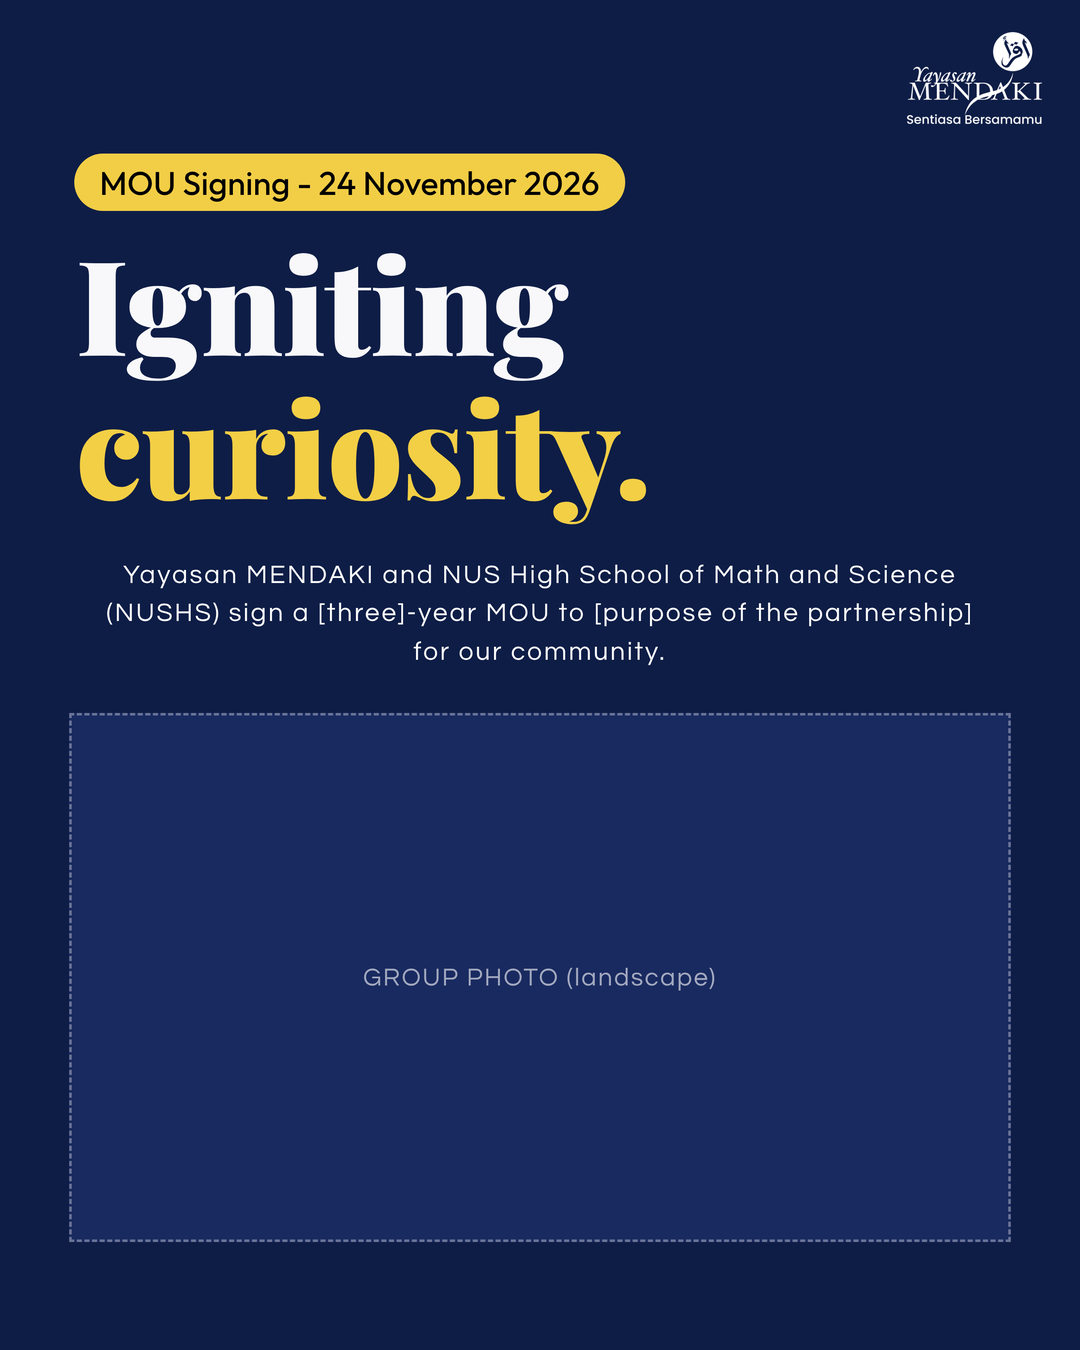
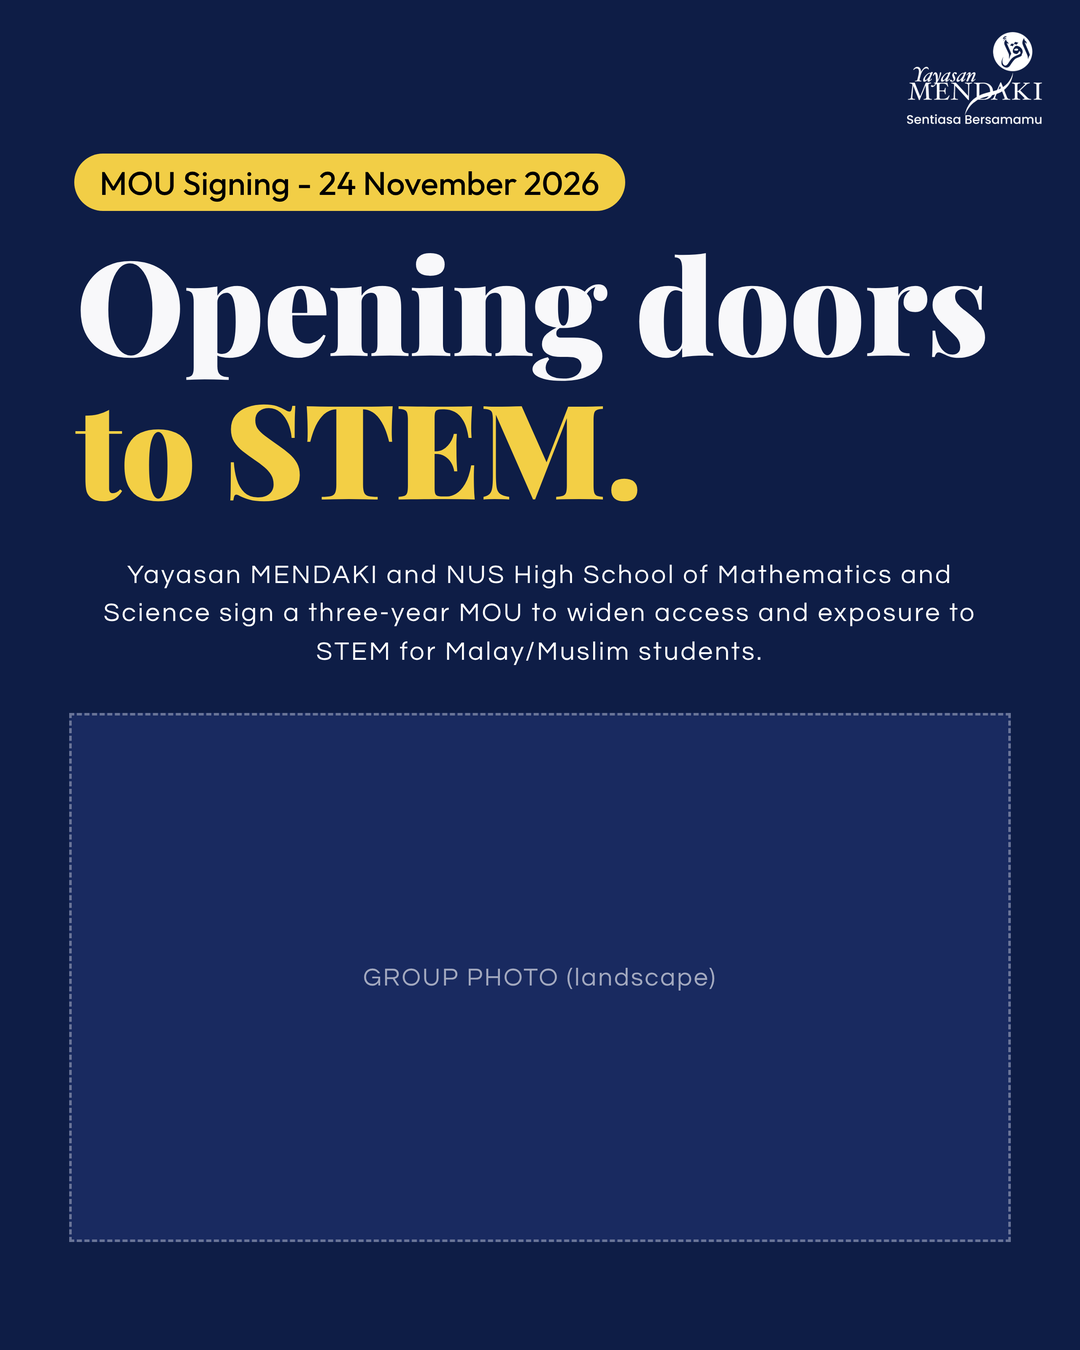
MOU carousel: NUS High School content from media release and CEO remarks; slide 2 now covers the partnership
Claude-Session: https://claude.ai/code/session_0122N69NTjqgo3Yfeburd2SZ

Changed region(s): [[0.0611, 0.1867, 0.9167, 0.4978]]

diff --git a/exports/mou_template/build.py b/exports/mou_template/build.py
@@ -84,16 +84,17 @@ def slides(c):
       <div class="lead" style="top:660px">{t(cv['lead'])}</div>
       {photo(cv['photo'], '', 'GROUP PHOTO (landscape)').replace('class=" ph', 'style="left:82px;top:845px;width:1116px;height:627px" class="ph')}
     """)
-    # 2 What is an MOU
+    # 2 About the partnership
+    n = len(ab["areas"][:4])
+    bar_h, step = (120, 165) if n <= 3 else (100, 128)
     areas = "".join(
-        f'<div class="area" style="top:{978 + i * 135}px"><div class="n">{i + 1}</div>'
+        f'<div class="area" style="top:{905 + i * step}px;height:{bar_h}px"><div class="n">{i + 1}</div>'
         f'<div class="bar card cushion">{t(a)}</div></div>' for i, a in enumerate(ab["areas"][:4]))
     s.append(f"""
-      <div class="head" style="top:170px;left:128px;font-size:118px">What is an <i class="y">MOU</i> <span class="y">?</span></div>
-      <div class="box card cushion lead" style="top:355px;height:166px;padding:0 70px;left:90px;right:90px">{t(ab['definition'])}</div>
-      <div class="pill" style="top:604px;left:104px;height:64px;font-size:36px">{t(ab['pill'])}</div>
-      <div class="lead" style="top:700px;left:90px;right:90px">{t(ab['body'])}</div>
-      <div class="caps" style="top:892px">{t(ab['areas_label'])}</div>
+      <div class="pill" style="top:150px">{t(ab['pill'])}</div>
+      <div class="head" style="top:238px;font-size:132px">{t(ab['headline_white'])}<span class="l2">{t(ab['headline_yellow'])}</span></div>
+      <div class="box card cushion lead" style="top:580px;height:180px;padding:0 70px"><div>{t(ab['body'])}</div></div>
+      <div class="caps" style="top:815px">{t(ab['areas_label'])}</div>
       {areas}
     """)
     # 3 Impact
